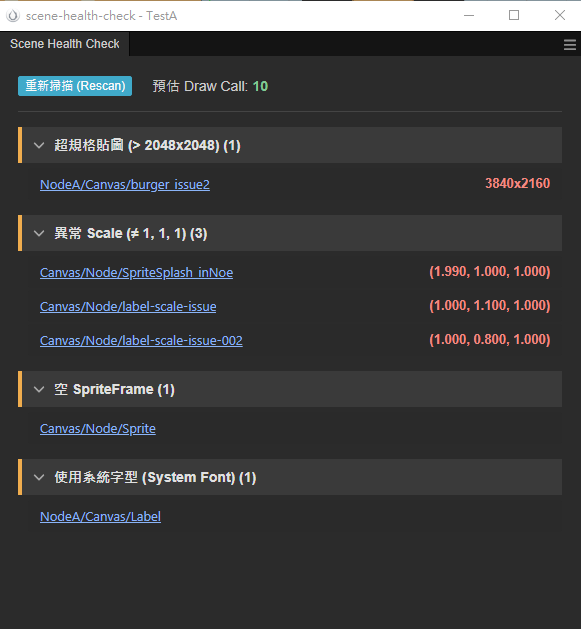
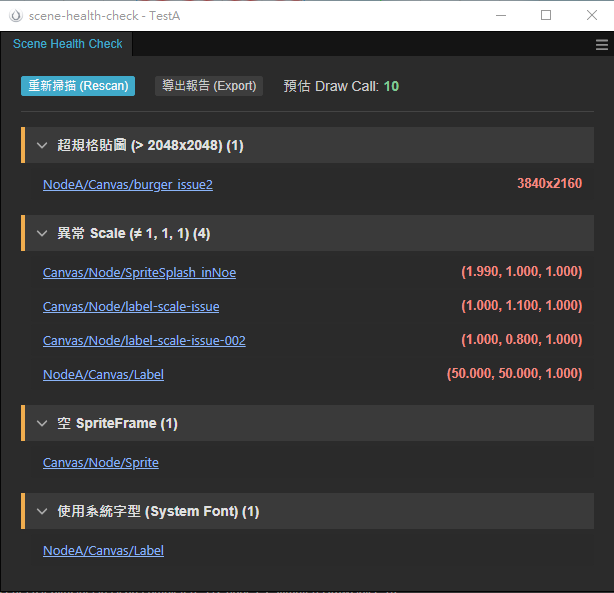
feat: implement report export, enhance UI path display and navigation

diff --git a/source/panels/default/index.ts b/source/panels/default/index.ts
@@ -1,6 +1,6 @@
 /* eslint-disable vue/one-component-per-file */
 
-import { readFileSync } from 'fs-extra';
+import { readFileSync, writeJsonSync, ensureDirSync } from 'fs-extra';
 import { join } from 'path';
 import { createApp, App, defineComponent, h } from 'vue';
 
@@ -11,12 +11,7 @@ const ICON_PATHS: Record<string, { viewBox: string, d: string }> = {
     'magnifying-glass': { viewBox: '0 0 512 512', d: 'M416 208c0 45.9-14.9 88.3-40 122.7L502.6 457.4c12.5 12.5 12.5 32.8 0 45.3s-32.8 12.5-45.3 0L330.7 376c-34.4 25.2-76.8 40-122.7 40C93.1 416 0 322.9 0 208S93.1 0 208 0S416 93.1 416 208zM208 352a144 144 0 1 0 0-288 144 144 0 1 0 0 288z' },
     'chart-line': { viewBox: '0 0 512 512', d: 'M64 64c0-17.7-14.3-32-32-32S0 46.3 0 64V400c0 44.2 35.8 80 80 80H480c17.7 0 32-14.3 32-32s-14.3-32-32-32H80V64zM406.6 228.6c12.5 12.5 32.8 12.5 45.3 0s12.5-32.8 0-45.3l-96-96c-12.5-12.5-32.8-12.5-45.3 0L240 154.7l-57.4-57.4c-12.5-12.5-32.8-12.5-45.3 0l-48 48c-12.5 12.5-12.5 32.8 0 45.3s32.8 12.5 45.3 0L160 165.3l57.4 57.4c12.5 12.5 32.8 12.5 45.3 0l70.6-70.6 73.4 73.4z' },
     'chevron-down': { viewBox: '0 0 448 512', d: 'M201.4 374.6c12.5 12.5 32.8 12.5 45.3 0l160-160c12.5-12.5 12.5-32.8 0-45.3s-32.8-12.5-45.3 0L224 306.7 86.6 169.4c-12.5-12.5-32.8-12.5-45.3 0s-12.5 32.8 0 45.3l160 160z' },
-    'chevron-right': { viewBox: '0 0 320 512', d: 'M278.6 233.4c12.5 12.5 12.5 32.8 0 45.3l-160 160c-12.5 12.5-32.8 12.5-45.3 0s-12.5-32.8 0-45.3L210.7 256 73.4 118.6c-12.5-12.5-12.5-32.8 0-45.3s32.8-12.5 45.3 0l160 160z' },
-    'image': { viewBox: '0 0 512 512', d: 'M0 96C0 60.7 28.7 32 64 32H448c35.3 0 64 28.7 64 64V416c0 35.3-28.7 64-64 64H64c-35.3 0-64-28.7-64-64V96zM323.8 202.5c-4.5-6.6-11.9-10.5-19.8-10.5s-15.4 3.9-19.8 10.5l-87 127.6L170.7 297c-4.6-5.7-11.5-9-18.7-9s-14.2 3.3-18.7 9l-64 80c-5.8 7.2-6.9 17.1-2.9 25.4s12.4 13.6 21.6 13.6h336c8.9 0 17.1-4.9 21.2-12.8s3.6-17.4-1.4-24.7l-120-176zM112 192a48 48 0 1 0 0-96 48 48 0 1 0 0 96z' },
-    'maximize': { viewBox: '0 0 448 512', d: 'M32 32C14.3 32 0 46.3 0 64V176c0 17.7 14.3 32 32 32s32-14.3 32-32V96h80c17.7 0 32-14.3 32-32s-14.3-32-32-32H32zM160 448c-17.7 0-32 14.3-32 32s14.3 32 32 32H256 448c17.7 0 32-14.3 32-32V352c0-17.7-14.3-32-32-32s-32 14.3-32 32v80H352c-17.7 0-32 14.3-32 32s14.3 32 32 32H256V448H160zM448 32c17.7 0 32 14.3 32 32V176c0 17.7-14.3 32-32 32s-32-14.3-32-32V96H336c-17.7 0-32-14.3-32-32s14.3-32 32-32H448zM32 480c-17.7 0-32-14.3-32-32V336c0-17.7 14.3-32 32-32s32 14.3 32 32V416h80c17.7 0 32 14.3 32 32s-14.3 32-32 32H32z' },
-    'font': { viewBox: '0 0 448 512', d: 'M441 489.4c12.9 5.4 27.7-1.4 31.9-14.9L480 448l32 0c17.7 0 32-14.3 32-32s-14.3-32-32-32l-32 0-21.3-64 37.3 0c17.7 0 32-14.3 32-32s-14.3-32-32-32l-58.7 0L311.4 32c-4.7-12.1-16.4-20-29.4-20s-24.7 7.9-29.4 20L130.7 256 56 256c-17.7 0-32 14.3-32 32s14.3 32 32 32l53.3 0-21.3 64-32 0c-17.7 0-32 14.3-32 32s14.3 32 32 32l32 0-7.1 22.5c-4.3 13.5 2.5 28.3 15.4 33.7s27.7-2.5 31.9-16l10.2-32.2L400.7 456l10.2 32.2c4.3 13.5 19.1 20.3 31.9 14.9zM200 256L282 45.3 364 256 200 256zm-44.4 128l21.3-64 210.1 0 21.3 64-252.7 0z' },
-    'link': { viewBox: '0 0 640 512', d: 'M579.8 267.7c56.5-56.5 56.5-148 0-204.5c-50-50-128.8-56.5-186.3-15.4l-1.6 1.1c-14.4 10.3-17.7 30.3-7.4 44.6s30.3 17.7 44.6 7.4l1.6-1.1c32.1-22.9 76-19.3 103.8 8.6c31.5 31.5 31.5 82.5 0 114L422.3 334.8c-31.5 31.5-82.5 31.5-114 0c-27.9-27.9-31.5-71.8-8.6-103.8l1.1-1.6c10.3-14.4 6.9-34.4-7.4-44.6s-34.4-6.9-44.6 7.4l-1.1 1.6C206.5 251.2 213 330 263 380c56.5 56.5 148 56.5 204.5 0L579.8 267.7zM60.2 244.3c-56.5 56.5-56.5 148 0 204.5c50 50 128.8 56.5 186.3 15.4l1.6-1.1c14.4-10.3 17.7-30.3 7.4-44.6s-30.3-17.7-44.6-7.4l-1.6 1.1c-32.1 22.9-76 19.3-103.8-8.6C74 378.5 74 327.5 105.5 296L217.7 183.8c31.5-31.5 82.5-31.5 114 0c27.9 27.9 31.5 71.8 8.6 103.8l-1.1 1.6c-10.3 14.4-6.9 34.4 7.4 44.6s34.4 6.9 44.6-7.4l1.1-1.6C305.5 260.8 299 182 249 132c-56.5-56.5-148-56.5-204.5 0L60.2 244.3z' },
-    'circle-check': { viewBox: '0 0 512 512', d: 'M256 512A256 256 0 1 0 256 0a256 256 0 1 0 0 512zM369 209L241 337c-9.4 9.4-24.6 9.4-33.9 0l-64-64c-9.4-9.4-9.4-24.6 0-33.9s24.6-9.4 33.9 0l47 47L335 175c9.4-9.4 24.6-9.4 33.9 0s9.4 24.6 0 33.9z' }
+    'chevron-right': { viewBox: '0 0 320 512', d: 'M278.6 233.4c12.5 12.5 12.5 32.8 0 45.3l-160 160c-12.5 12.5-32.8 12.5-45.3 0s-12.5-32.8 0-45.3L210.7 256 73.4 118.6c-12.5-12.5-12.5-32.8 0-45.3s32.8-12.5 45.3 0l160 160z' }
 };
 
 const FaIcon = defineComponent({
@@ -53,7 +48,8 @@ module.exports = Editor.Panel.define({
                 const app = createApp({
                     data() {
                         return {
-                            report: { oversizedTextures: [], abnormalScales: [], emptySpriteFrames: [], systemFontLabels: [], drawCallEstimate: 0 },
+                            report: null as any,
+                            lastExportPath: '',
                             expanded: { oversizedTextures: true, abnormalScales: true, emptySpriteFrames: true, systemFontLabels: true },
                             isScanning: false,
                         };
@@ -71,6 +67,7 @@ module.exports = Editor.Panel.define({
                     methods: {
                         async scan() {
                             this.isScanning = true;
+                            this.lastExportPath = ''; // 重置導出路徑，隱藏相關 UI
                             try {
                                 const result = await Editor.Message.request('scene', 'execute-scene-script', {
                                     name: 'scene-health-check',
@@ -85,11 +82,52 @@ module.exports = Editor.Panel.define({
                         async selectNode(uuid: string) {
                             await Editor.Selection.clear('node');
                             await Editor.Selection.select('node', uuid);
+                        },
+                        /**
+                         * 開啟導出目錄
+                         */
+                        openExportDir() {
+                            if (!this.lastExportPath) return;
+                            // 使用 Editor 內建的 Explorer 工具，通常比原生 shell 更容易獲得聚焦
+                            const utils = Editor.Utils as any;
+                            if (utils.Explorer && utils.Explorer.select) {
+                                utils.Explorer.select(this.lastExportPath);
+                            } else {
+                                const { shell } = require('electron');
+                                shell.showItemInFolder(this.lastExportPath);
+                            }
+                        },
+                        /**
+                         * 導出報告至檔案
+                         */
+                        exportReport() {
+                            if (!this.report) return;
+
+                            const now = new Date();
+                            const timestamp = `${now.getFullYear()}${(now.getMonth() + 1).toString().padStart(2, '0')}${now.getDate().toString().padStart(2, '0')}_${now.getHours().toString().padStart(2, '0')}${now.getMinutes().toString().padStart(2, '0')}${now.getSeconds().toString().padStart(2, '0')}`;
+                            const fileName = `SceneHealthReport_${this.report.sceneName}_${timestamp}.json`;
+                            
+                            // 儲存至專案根目錄的 temp 目錄
+                            const projectPath = Editor.Project.path;
+                            const exportDir = join(projectPath, 'temp/scene-health-check');
+                            const fullPath = join(exportDir, fileName);
+
+                            try {
+                                ensureDirSync(exportDir);
+                                writeJsonSync(fullPath, this.report, { spaces: 4 });
+                                this.lastExportPath = fullPath;
+                                console.log(`[HealthCheck] Report exported to: ${fullPath}`);
+                                
+                                // 在系統資源管理器中顯示該檔案
+                                const { shell } = require('electron');
+                                shell.showItemInFolder(fullPath);
+                            } catch (err) {
+                                console.error('[HealthCheck] Failed to export report:', err);
+                            }
                         }
                     },
                     template: vueTemplate,
                     mounted() {
-                        console.log('[HealthCheck] Panel opened, triggering initial scan...');
                         this.scan();
                     }
                 });

diff --git a/static/template/vue/health-check.html b/static/template/vue/health-check.html
@@ -1,11 +1,21 @@
 <div class="health-check-container">
     <div class="header">
-        <ui-button class="blue" @click="scan">
-            重新掃描 (Rescan)
-        </ui-button>
-        <span class="draw-call-info" v-if="report">
-            預估 Draw Call: <strong>{{report.drawCallEstimate || 0}}</strong>
-        </span>
+        <div class="header-main">
+            <ui-button class="blue" @click="scan">
+                重新掃描 (Rescan)
+            </ui-button>
+            <ui-button @click="exportReport" v-if="report">
+                導出報告 (Export)
+            </ui-button>
+            <span class="draw-call-info" v-if="report">
+                預估 Draw Call: <strong>{{report.drawCallEstimate || 0}}</strong>
+            </span>
+        </div>
+        <div class="header-path" v-if="lastExportPath">
+            <span class="path-label">最後導出位置:</span>
+            <span class="path-text" @click="openExportDir">{{lastExportPath}}</span>
+            <fa-icon name="magnifying-glass" class="open-folder-icon" @click="openExportDir"></fa-icon>
+        </div>
     </div>
 
     <div class="content" v-if="report">

diff --git a/static/style/default/index.css b/static/style/default/index.css
@@ -9,10 +9,46 @@
 
 .header {
     display: flex;
-    align-items: center;
-    gap: 20px;
+    flex-direction: column; /* 改為垂直排列以容納路徑 */
+    gap: 10px;
     padding-bottom: 15px;
     border-bottom: 1px solid #444;
+}
+
+.header-main {
+    display: flex;
+    align-items: center;
+    gap: 20px;
+}
+
+.header-path {
+    font-size: 11px;
+    color: #888;
+    background: #222;
+    padding: 4px 8px;
+    border-radius: 4px;
+    display: flex;
+    align-items: center;
+    gap: 8px;
+}
+
+.path-text {
+    color: #8ab4f8;
+    text-decoration: underline;
+    cursor: pointer;
+    overflow: hidden;
+    text-overflow: ellipsis;
+    white-space: nowrap;
+    max-width: 80%;
+}
+
+.open-folder-icon {
+    cursor: pointer;
+    color: #ccc;
+}
+
+.open-folder-icon:hover {
+    color: #fff;
 }
 
 /* 圖標間距與顏色 */

diff --git a/source/scene.ts b/source/scene.ts
@@ -17,6 +17,7 @@ export const methods = {
         }
 
         const report = {
+            sceneName: scene.name || 'Untitled',
             oversizedTextures: [] as any[],
             abnormalScales: [] as any[],
             emptySpriteFrames: [] as any[],
